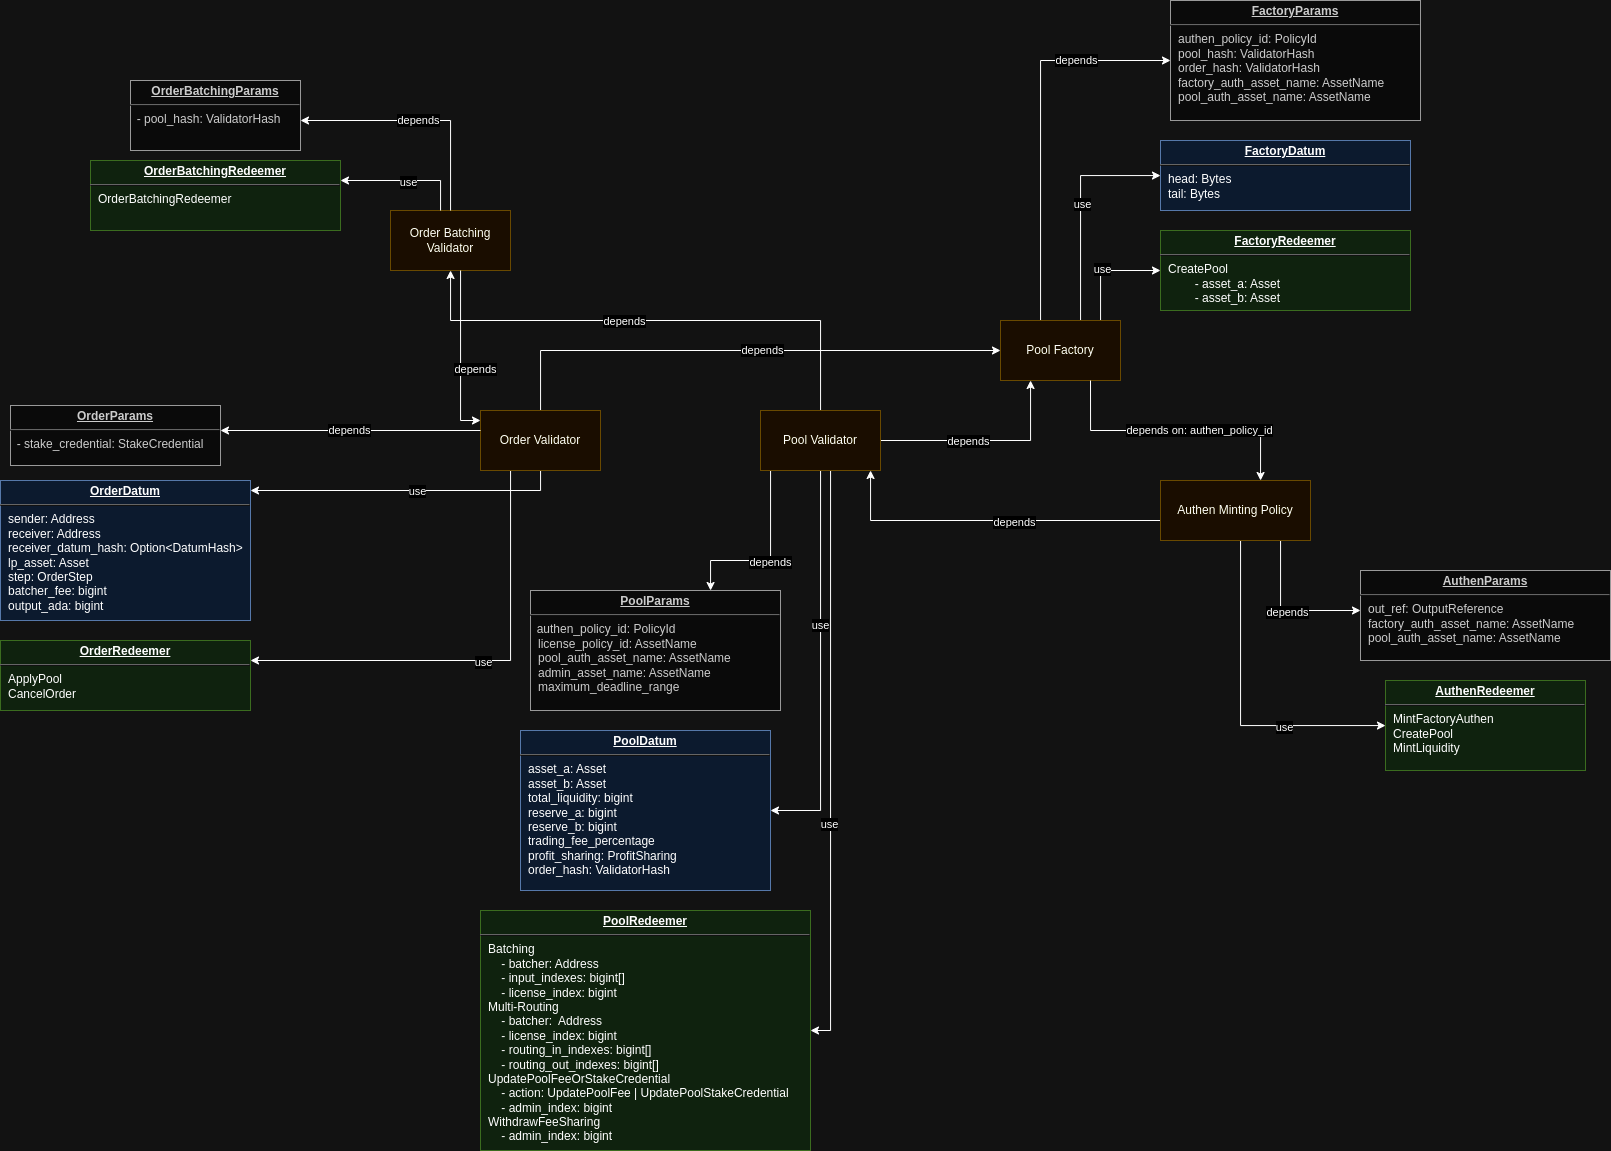
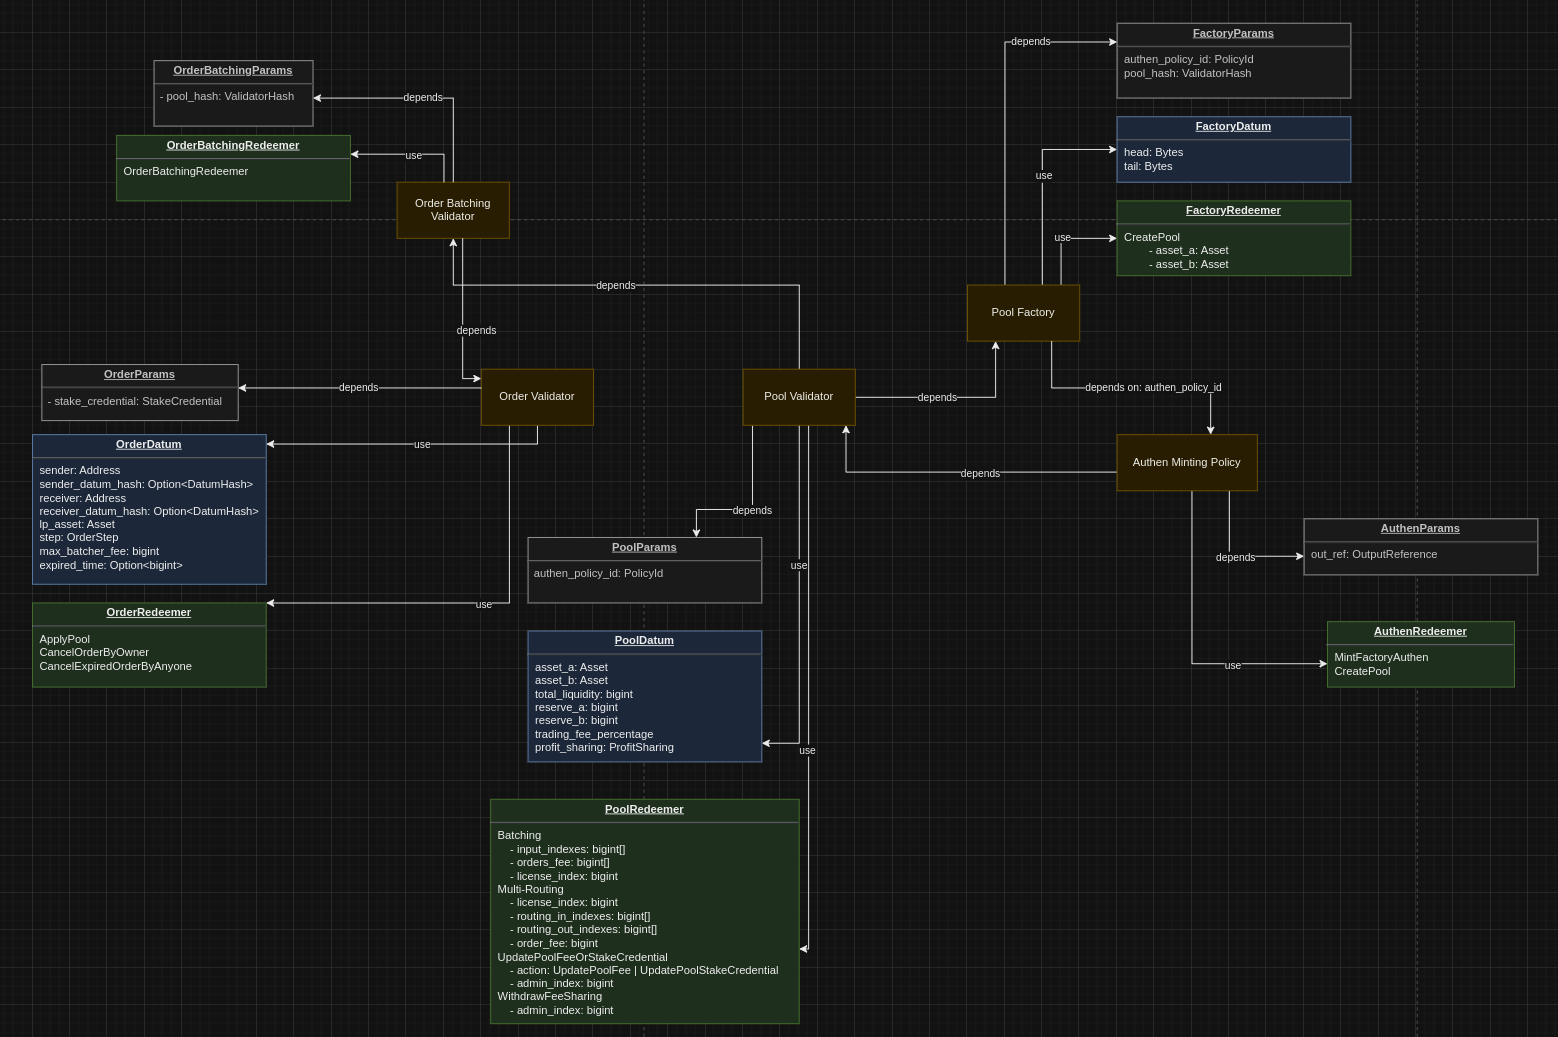
remove order_hash in Pool Datum

diff --git a/amm-v2-docs/amm-v2-specs.md b/amm-v2-docs/amm-v2-specs.md
@@ -256,8 +256,6 @@ Anytime new Pool is created, a Factory UTxO will be spent can create the 2 new o
 
 - _authen_policy_id_: The PolicyID of `Authen Minting Policy`
 - _pool_hash_: ValidatorHash of Pool Contract
-- _order_hash_: ValidationHash of Order Contract
-
 
 #### 3.3.4.2 Datum
 - _head_: The Head of Factory `LinkedList`` element
@@ -282,7 +280,6 @@ Anytime new Pool is created, a Factory UTxO will be spent can create the 2 new o
      - _total_liquidity_ must be sqrt(_amount_a_ * _amount_b_)
      - _reserve_a_ and _reserve_b_ must be _amount_a_ and _amount_b_
      - _trading_fee_percentage_ must be between **0.05%** and **10%**
-     - _order_hash_ must be the same with parameter
      - _profit_sharing_ must be empty
    - Pool Value must only have necessary Token: Asset A, Asset B, remaining LP Token (_MAX_INT64_ - _total_liquidity_), 1 Pool NFT Token and 3 ADA (required ADA for an UTxO)
    - validate that transaction only mint 3 types of tokens:
@@ -311,7 +308,6 @@ Pool validator is the most important part in the system. It's responsible for gu
 - _reserve_b_: Asset B's balance of Liquidity Providers
 - _trading_fee_numerator_: Numerator of Trading Fee
 - _trading_fee_denominator_: Denominator of Trading Fee
-- _order_hash_: ValidatorHash of Order Contract
 - _profit_sharing_opt_: (Optional) Numerator and Denominator of Profit Sharing percentage, this is the percentage of Trading Fee. (eg, Trading Fee is 3%, Profit Sharing is 1/6 -> Profit Sharing = 1/6 * 3%)
 
 
@@ -395,7 +391,6 @@ Pool validator is the most important part in the system. It's responsible for gu
       -  _total_liquidity_
       -  _reserve_a_
       -  _reseve_b_
-      -  _order_hash_
    -  Each _action_ must be followed:
       -  _UpdatePoolFee_:
             - Trading Fee must be between **0.05%** and **10%**
@@ -510,7 +505,6 @@ Transaction structure:
        - reserve_b: y (5)
        - trading_fee_numerator: Followed by OnChain validation
        - trading_fee_denominator: Followed by OnChain validation
-       - order_hash
        - profit_sharing_opt: None
    - Change UTxOs
 
@@ -666,7 +660,6 @@ Transaction structure:
        - _reserve_b_
        - _trading_fee_numerator_
        - _trading_fee_denominator_
-       - _order_hash_
        - _profit_sharing_opt_
      - Redeemer: Batching
        - _batcher_address_
@@ -689,7 +682,6 @@ Transaction structure:
        - _reserve_b_ (followed by OnChain calculation)
        - _trading_fee_numerator_ (unchanged)
        - _trading_fee_denominator_ (unchanged)
-       - _order_hash_ (unchanged)
        - _profit_sharing_opt_ (unchanged)
    - Order Outputs:
      - Address: _receiver_
@@ -784,7 +776,6 @@ Transaction structure:
        - _reserve_b_
        - _trading_fee_numerator_
        - _trading_fee_denominator_
-       - _order_hash_
        - _profit_sharing_opt_
      - Redeemer: MultiRouting
        - _batcher_address_
@@ -813,7 +804,6 @@ Transaction structure:
        - _reserve_b_ (followed by OnChain calculation)
        - _trading_fee_numerator_ (unchanged)
        - _trading_fee_denominator_ (unchanged)
-       - _order_hash_ (unchanged)
        - _profit_sharing_opt_ (unchanged)
    - Order Output
      - Address: _receiver_
@@ -850,7 +840,6 @@ Transaction structures:
        - _reserve_b_
        - _trading_fee_numerator_
        - _trading_fee_denominator_
-       - _order_hash_
        - _profit_sharing_opt_
      - Redeemer: UpdatePoolFeeOrStakeCredential
        - _action_
@@ -896,7 +885,6 @@ Transaction structures:
        - _reserve_b_
        - _trading_fee_numerator_
        - _trading_fee_denominator_
-       - _order_hash_
        - _profit_sharing_opt_
      - Redeemer: WithdrawLiquidityShare
        - _admin_index_
